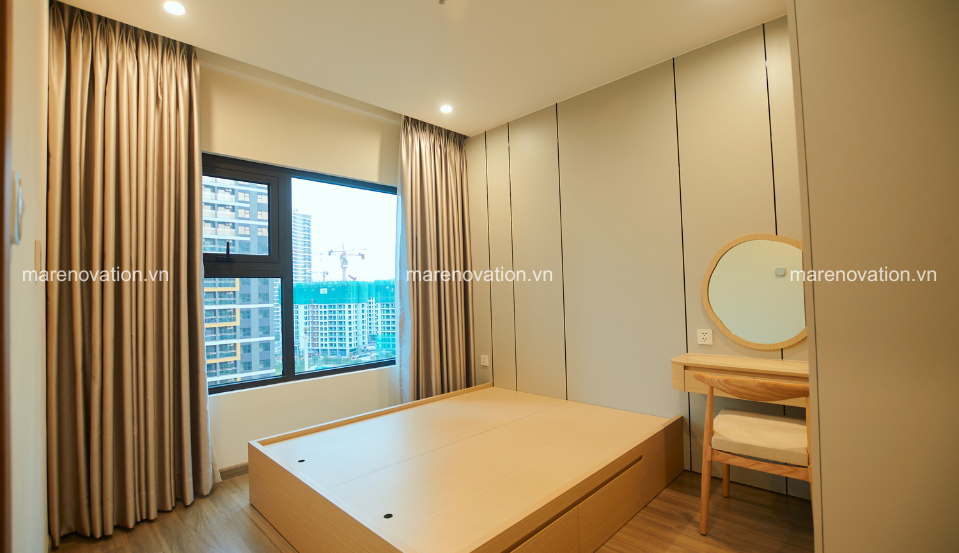
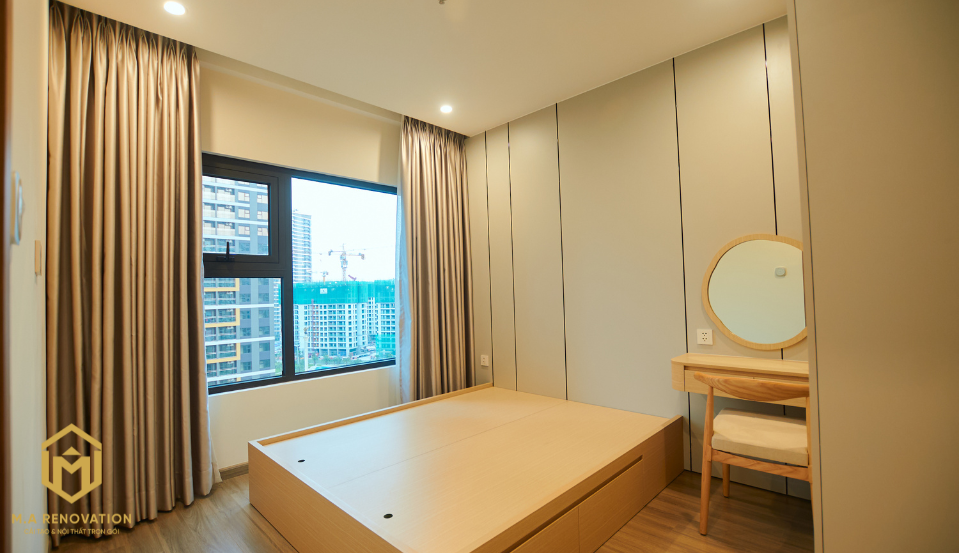
update projects

diff --git a/src/assets/assets.js b/src/assets/assets.js
@@ -1,4 +1,4 @@
-import logo from "./logo.svg";
+import logo from "./logo.png";
 import logo_no_text from "./logo_no_text.png";
 import logo_dark from "./logo_dark.svg";
 import cross_icon from "./cross_icon.svg";
@@ -8,7 +8,6 @@ import left_arrow from "./left_arrow.svg";
 import right_arrow from "./right_arrow.svg";
 import header_img from "./header_img.jpg";
 import brand_img from "./brand_img.png";
-import project_img_6 from "./project_img_6.jpg";
 import reasons from "./reasons.png";
 
 import project_img_1 from "./project1.png";
@@ -27,9 +26,13 @@ import project_img_4 from "./project4.png";
 import project4_before from "./project4_before.png";
 import project4_after from "./project4_after.png";
 
-// import project_img_5 from "./project5.png";
-// import project5_before from "./project5_before.png";
-// import project5_after from "./project5_after.png";
+import project_img_5 from "./project5.png";
+import project5_before from "./project5_before.png";
+import project5_after from "./project5_after.png";
+
+import project_img_6 from "./project6.png";
+import project6_before from "./project6_before.png";
+import project6_after from "./project6_after.png";
 
 import about_us from "./about_us.jpg";
 import founder from "./founder.png";
@@ -60,6 +63,15 @@ export const assets = {
 
 export const projectsData = [
   {
+    title: "Nhà phố",
+    price: "Bếp",
+    location: "Cải tạo không gian",
+    image: project_img_3,
+    before: project3_before,
+    after: project3_after,
+    desc: "Cải tạo căn hộ cũ thành không gian sống hiện đại, tối ưu ánh sáng và công năng.",
+  },
+  {
     title: "Căn hộ 2PN",
     price: "Phòng ngủ",
     location: "Tối ưu tiện nghi",
@@ -77,14 +89,15 @@ export const projectsData = [
     after: project2_after,
     desc: "Biến đổi nhà phố truyền thống thành tổ ấm tiện nghi, sang trọng.",
   },
+  
   {
-    title: "Nhà phố",
-    price: "Bếp",
+    title: "Nhà cấp 4",
+    price: "Cầu thang",
     location: "Cải tạo không gian",
-    image: project_img_3,
-    before: project3_before,
-    after: project3_after,
-    desc: "Cải tạo căn hộ cũ thành không gian sống hiện đại, tối ưu ánh sáng và công năng.",
+    image: project_img_6,
+    before: project6_before,
+    after: project6_after,
+    desc: "Biến đổi nhà phố truyền thống thành tổ ấm tiện nghi, sang trọng.",
   },
   {
     title: "Nhà phố",
@@ -94,7 +107,17 @@ export const projectsData = [
     before: project4_before,
     after: project4_after,
     desc: "Biến đổi nhà phố truyền thống thành tổ ấm tiện nghi, sang trọng.",
-  }
+  },
+   {
+    title: "Nhà phố",
+    price: "Cầu thang",
+    location: "Cải tạo không gian",
+    image: project_img_5,
+    before: project5_before,
+    after: project5_after,
+    desc: "Biến đổi nhà phố truyền thống thành tổ ấm tiện nghi, sang trọng.",
+  },
+
 ];
 export const REASONS = [
     {

diff --git a/src/pages/Contact.jsx b/src/pages/Contact.jsx
@@ -36,7 +36,7 @@ export const Contact = () => {
       id="Contact"
     >
       <h1 className="text-2xl sm:text-4xl mb-2 font-bold text-gray-800 font-montserrat">
-        Liên hệ <span className="text-orange-500">Minh An</span>
+        Liên hệ <span className="text-orange-500">M.A RENOVATION</span>
       </h1>
       <p className="text-gray-600 mb-12">
         Hãy để lại thông tin, Minh An sẽ liên hệ lại với bạn trong thời gian sớm
